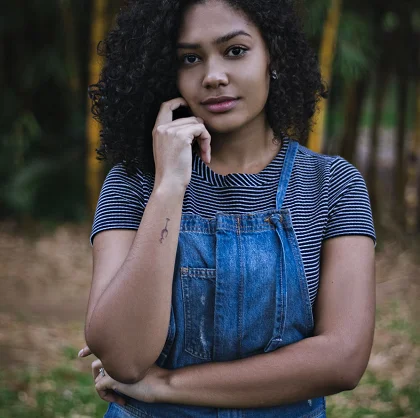
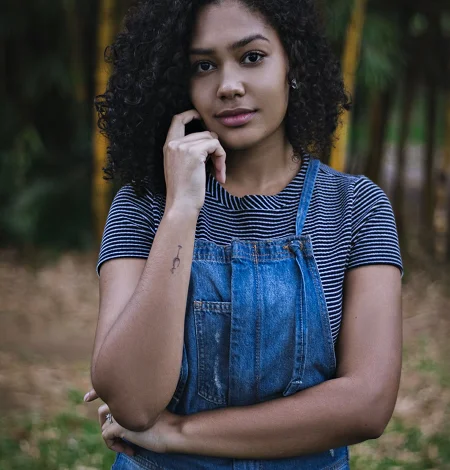
nina resized to make a rectangle instead of a square

Changed region(s): [[0.4333, 0.3732, 0.8976, 0.7153], [0.2167, 0.4043, 0.3714, 0.5598], [0.4952, 0.622, 0.5262, 0.6531]]

diff --git a/index.html b/index.html
@@ -62,7 +62,7 @@
 </div>
 <div id="about">
 	<div class="picture left">
-		<img src="./assets/images/nina.webp" alt="photo de Nina Carducci"  width="420" height="418">
+		<img src="./assets/images/nina.webp" alt="photo de Nina Carducci"  width="420" height="470">
 	</div>
 	<div id="about-me">
 		<h2 class="about-me__title">A propos de moi</h2>
